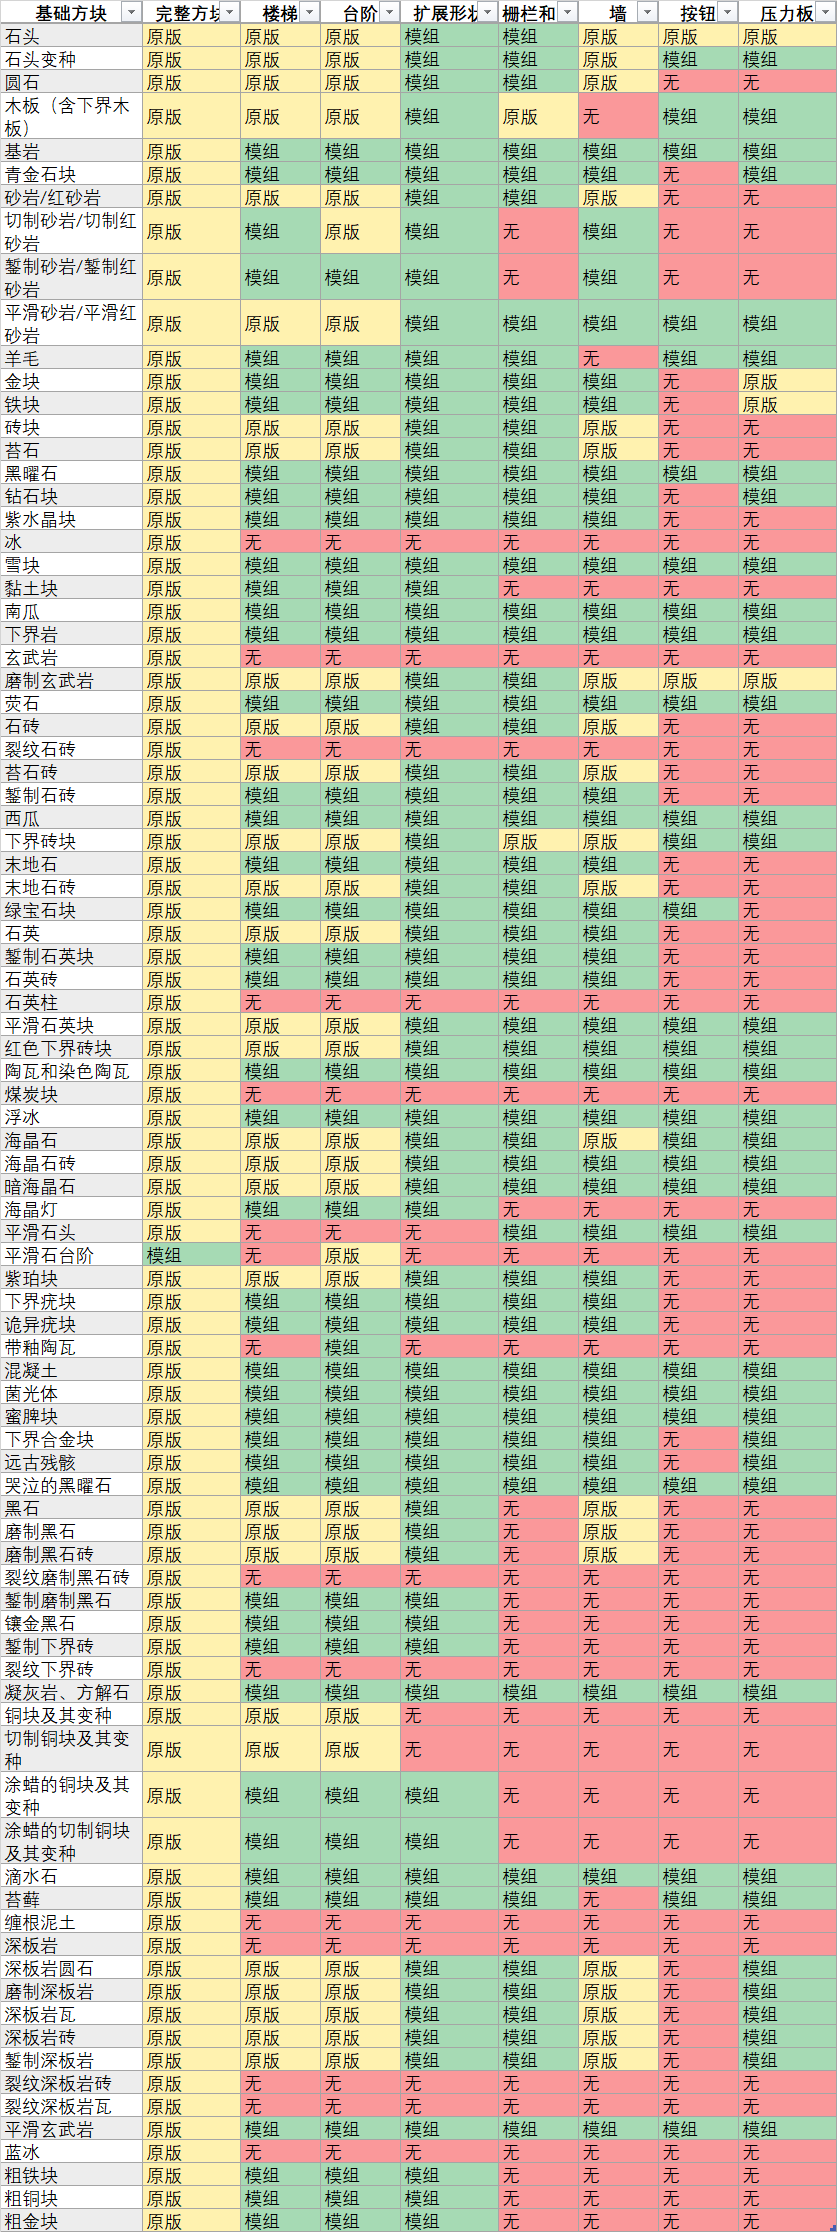
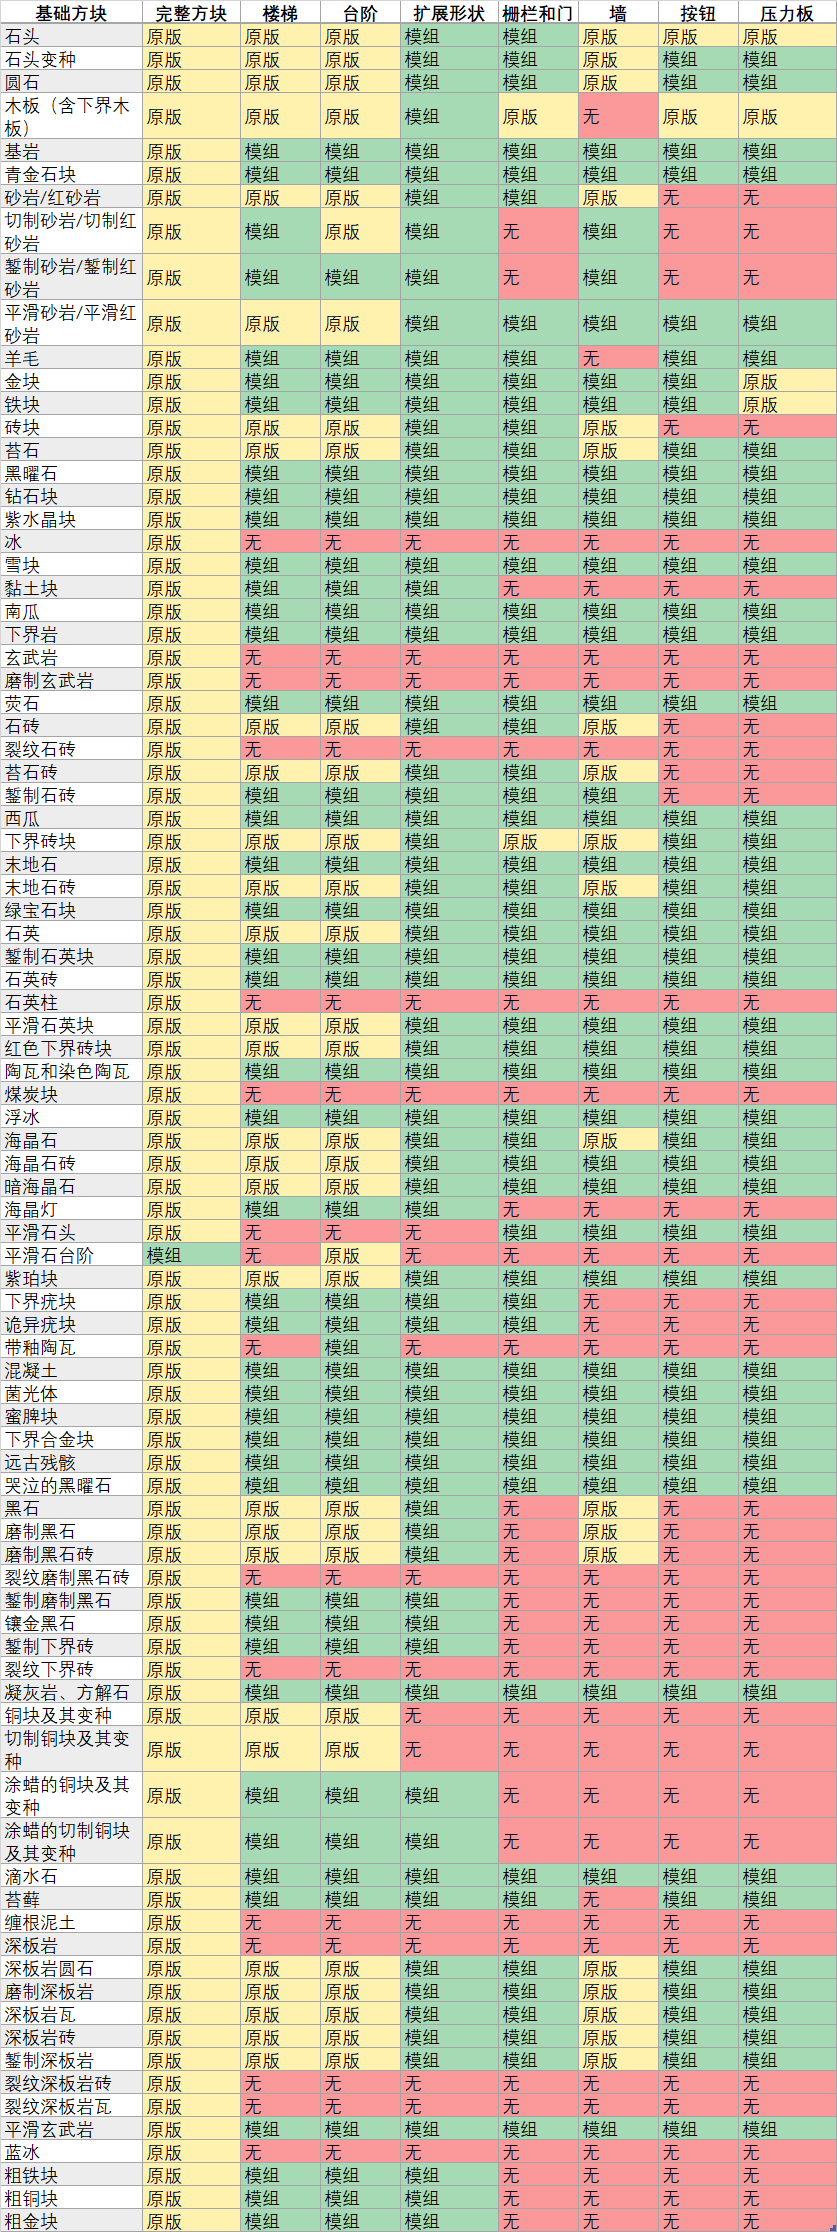
Prepare publish for 1.17+

diff --git a/README.md b/README.md
@@ -4,7 +4,7 @@ If you do not understand Chinese, you may refer to the [document in English](REA
 
 本模组为许多的原版方块添加了其楼梯、台阶、栅栏、栅栏门、按钮和压力板，以及原版不具有的纵台阶、纵楼梯、横条、纵条。具体内容列表请参考[此文件](BlockList.md)。
 
-模组目前支持 Minecraft Java 版 1.17.x 和 1.16.x，并需要 Fabric API。
+模组目前支持 Minecraft Java 版 1.17.x 和 1.16.x，并需要 Fabric API。其中，在 1.17.x 的模组理论上也是兼容 1.18 的快照版本的。
 
 **请注意：如果将模组由 1.2.3 更新到 1.2.4 以上的版本，请提前拆除所有的 木板墙 和 粘土墙 方块。从 1.2.4 开始，木板墙和粘土墙被移除。**
 
@@ -23,6 +23,8 @@ If you do not understand Chinese, you may refer to the [document in English](REA
 所有的楼梯、台阶、栅栏、墙的硬度、挖掘工具和挖掘时间与其基础方块相当（这是参照了原版的特性），而非与其基础方块成正比。例如，破坏羊毛台阶的时间与破坏整个羊毛的时间相同，而非前者是后者的一半。
 
 在原版中，大多数压力板和按钮的硬度为其基础方块的1/4到1/3。本模组添加的压力板和按钮的硬度均为基础方块的1/4。（基岩制品在生存模式不可破坏，但是基岩按钮、基岩压力板在失去其依靠的方块时仍会正常掉落）。本模组对按钮进行了扩展，质地较软的按钮（如羊毛按钮、雪按钮）的触发时长为60刻（3秒），质地很硬的按钮（如黑曜石按钮、基岩按钮）的触发时长为5 刻（1/4秒）。参照原版代码，所有的按钮、压力板均无碰撞箱。
+
+为避免合成表冲突，部分按钮不可合成。
 
 另外此模组还添加了“双层平滑石台阶”方块和“石化橡木木板”方块，分别可以合成平滑石台阶和石化橡木台阶（原版的平滑石块也可以合成平滑石台阶）。
 

diff --git a/README-en.md b/README-en.md
@@ -4,7 +4,7 @@
 
 This mod adds stairs, slabs, fences, fence gates, button and pressure plates for many vanilla blocks, along with vertical slabs, vertical stairs, quarter pieces and vertical quarter pieces that do not exist in vanilla Minecraft. A list of the contents can be found in [this file](BlockList.md).
 
-At present this mod supports Minecraft Java Edition 1.17.x and 1.16.x and requires Fabric API.
+At present this mod supports Minecraft Java Edition 1.17.x and 1.16.x and requires Fabric API. The mod for 1.17 is compatible with 1.18 snapshot versions in theory.
 
 **NOTICE: If you update the mod from 1.2.3 to ≥1.2.4, please remove all _plank wall_ and _clay wall_ blocks from your worlds! As of 1.2.4, plank walls and clay walls are no longer a feature of this mod.**
 
@@ -23,6 +23,8 @@ Netherite blocks when dropped as items resist fire and lava.
 The hardness, mining tools and mining time of all stairs, slabs, fences and walls are equal to their base blocks. For example, a wool slab and a wool block will take the same time to mine.
 
 In vanilla, the hardness of pressure plates and buttons equals to 1/4 or 1/3 of their basic blocks. All pressure plates and buttons added in this mod have the same hardness as 1/4 of their base blocks. (Bedrock blocks are invulnerable in Survival Mode, but bedrock pressure plates and bedrock buttons drop normally when losing blocks relied on.) This mod simply extends buttons: soft buttons (wool buttons, snow buttons) trigger 60 ticks (3 seconds); hard buttons (obsidian buttons, bedrock buttons) trigger 5 ticks (1/4 second). All buttons and pressure plates have no collision box like in vanilla MC.
+
+To avoid recipe conflicts, some buttons are not craftable.
 
 This mod also adds "double smooth stone slab" and "petrified oak planks" blocks, respectively crafted from smooth stone slabs and petrified oak slabs. Vanilla smooth stone blocks can still be crafted into smooth stone slabs.
 
